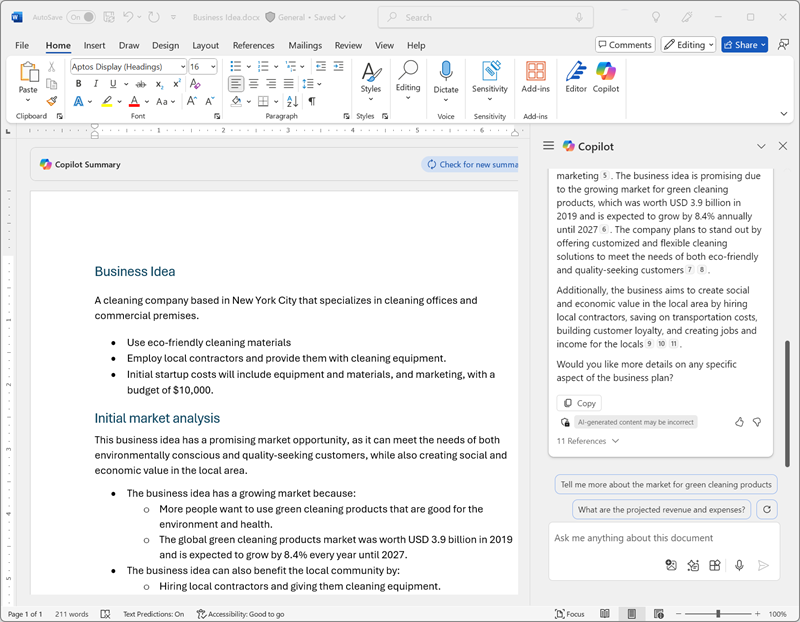
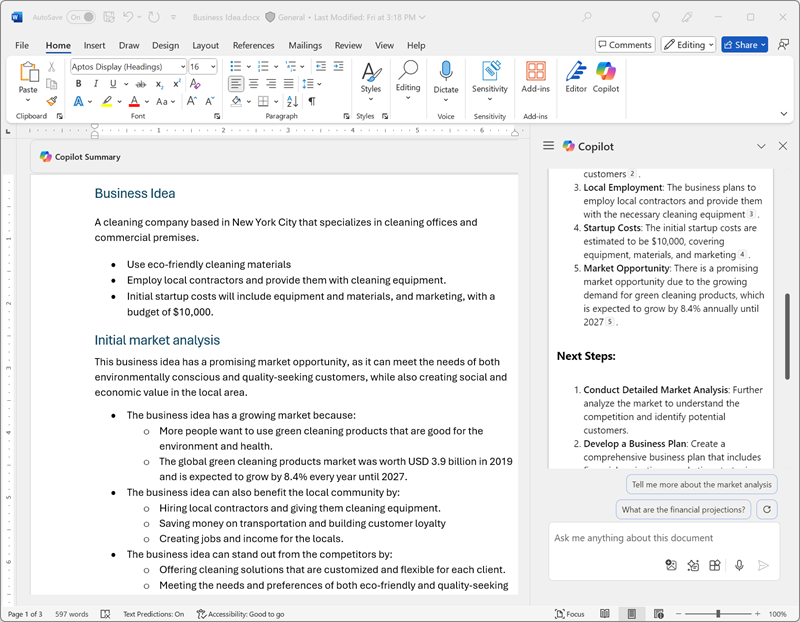
Improved prompts

diff --git a/Instructions/Labs/12-generative-ai.md b/Instructions/Labs/12-generative-ai.md
@@ -8,7 +8,7 @@ In this exercise you will explore some of the ways in which Microsoft Copilot ca
 
 This exercise should take approximately **40** minutes to complete.
 
-> **Note**: This exercise assumes that you have a [personal Microsoft Account](https://signup.live.com) (such as an outlook.com account) with which you are signed into [Microsoft Edge](https://www.microsoft.com/edge/download) on your computer.
+> **Note**: This exercise assumes that you have a [personal Microsoft Account](https://signup.live.com) (such as an outlook.com account) with which you are signed into [Microsoft Edge](https://www.microsoft.com/edge/download) on your computer. If you have both a work account and a personal account, be sure to select your *personal* account in the account settings at the top left of Microsoft Edge.
 
 ## Use Copilot to explore a document and research an idea
 
@@ -27,16 +27,18 @@ To start your exploration of generative AI, let's use Microsoft Copilot in Edge 
 1. In the chat box at the bottom of the Copilot pane, enter following the prompt:
 
     ```
-    What is this document about?
+    Summarize this document into 5 key points, and suggest next steps.
     ```
 
     If prompted, confirm that you want to allow Copilot to access the page.
 
-1. Review the response from Copilot, which should summarize the main points in the document, as shown here:
+1. Review the response from Copilot, which should summarize the main points in the document and suggest some follow up actions for you to take, as shown here:
 
     ![Screenshot of the Copilot pane with a response.](./media/generative-ai/copilot-response.png)
 
     > **Note**: The specific response may vary.
+
+    Hopefully, Copilot has provided some useful guidance. However if you have additional questions, you can just ask for more specific information.
 
 1. Enter the following prompt:
 
@@ -44,7 +46,7 @@ To start your exploration of generative AI, let's use Microsoft Copilot in Edge 
     How do I go about setting up a business in New York?
     ```
 
-1. Review the response, which should contain some advice and links to resource to help you get started setting up a business in New York, and may include some suggested follow-up prompts to get more information.
+1. Review the response, which should contain some advice and links to resource to help you get started setting up a business in New York.
 
     > **Important**: The AI-generated response is based on information publicly on the Web. While it may be useful to help you understand the steps required to set up a business, it is not guaranteed to be 100% accurate and does not replace the need for professional advice!
 
@@ -77,7 +79,11 @@ Now that you've done some initial research, let's have Copilot help you develop 
     ```
 
 1. Review the image that Copilot generated.
-1. Use more prompts to iterate on the design (for example, `Make it green and blue`) until you have a logo with which you are happy.
+
+1. Use more prompts to iterate on the design (for example, `Make it green and blue`) until you have a logo you like.
+
+    > **Tip**: When Coplot generates images that contain text, you may notice some spelling errors. Try different prompts until you're happy with the results.
+
 1. Right-click the generated logo and copy it to the clipboard. Then paste it into the top of the business plan document, like this:
 
     ![Screenshot of a Word document with a Copilot-generated image.](./media/generative-ai/generated-image.png)

diff --git a/Instructions/Labs/12b-m365-copilot.md b/Instructions/Labs/12b-m365-copilot.md
@@ -25,7 +25,7 @@ To start your exploration of generative AI, let's use Copilot for Word to examin
 1. In the Copilot pane, enter following the prompt in the text area at the bottom:
 
     ```
-    What is this document about?
+    Summarize this document into 5 key points, and suggest next steps.
     ```
 
 1. Review the response from Copilot, which should summarize the main points in the document, as shown here:
@@ -34,13 +34,15 @@ To start your exploration of generative AI, let's use Copilot for Word to examin
 
     > The specific response you receive may vary due to the nature of generative AI.
 
+    Hopefully, Copilot has provided some useful guidance. However if you have additional questions, you can just ask for more specific information.
+
 1. Return to the Copilot pane to ask Copilot the following question:
 
     ```
-    How do I setup a new business in New York?
+    How do I setup a new business in New York? Answer with a numbered list.
     ```
 
-1. Review the response and follow up with additional questions as needed. When you're happy with the response, use the **Copy** (&#128461;) icon under the response to copy it to the clipboard. Paste it into the Word document. Then select any text that provides a list of things to do when setting up a business in New York and use the Copilot icon (at the bottom of the selected text) to visualize the text as a table.
+1. Review the response and follow up with additional questions as needed. When you're happy with the response, use the **Copy** (&#128461;) icon under the response to copy it to the clipboard. Paste it into the Word document. Then select the text that provides a list of things to do when setting up a business in New York and use the Copilot icon (at the bottom of the selected text) to visualize the text as a table.
 
     ![Screenshot asking Copilot to visualize in a table format.](./media/generative-ai/copilot-rewrite-as-table.png)
 
